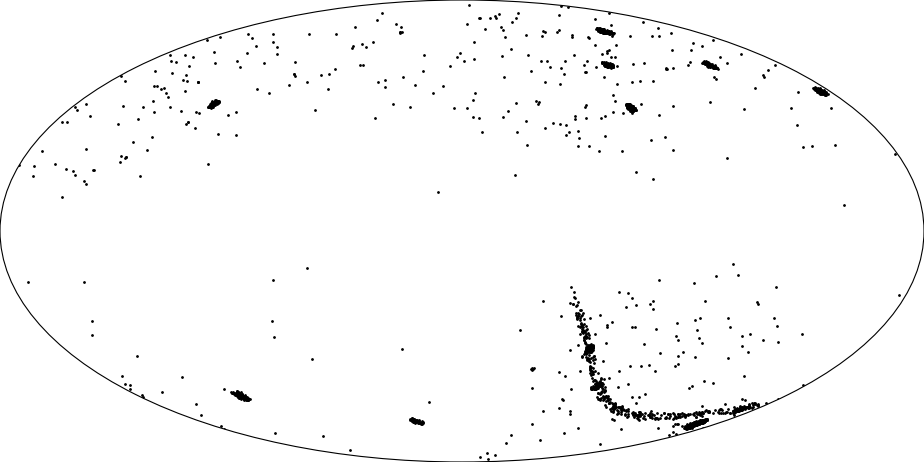
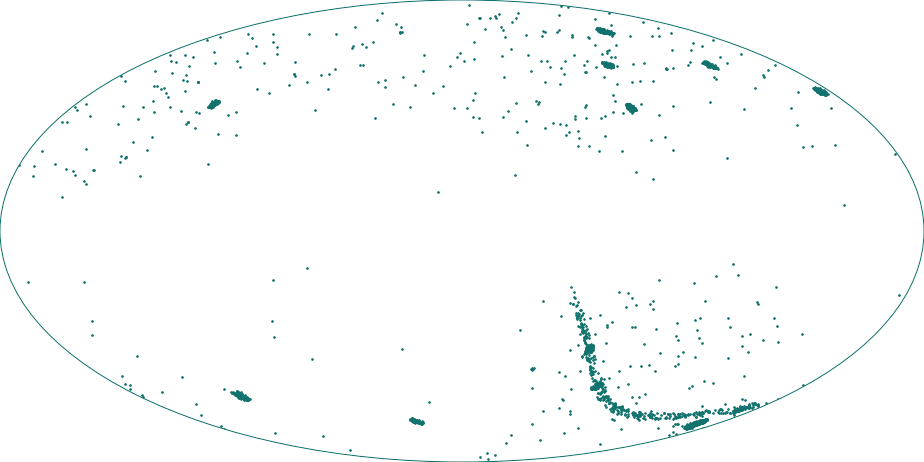
[C] refactor tooltip

diff --git a/packages/epo-widget-lib/src/charts/Tooltip/index.tsx b/packages/epo-widget-lib/src/charts/Tooltip/index.tsx
@@ -1,52 +1,113 @@
-import { FunctionComponent } from "react";
+import { FunctionComponent, PropsWithChildren } from "react";
 import * as Styled from "./styles";
 
 export interface TooltipProps {
-  value: number | string;
   x: number;
   y: number;
-  height?: number;
+  visible: boolean;
+  origin?: string;
   className?: string;
 }
 
-const Tooltip: FunctionComponent<TooltipProps> = ({
-  value,
+const getXOffset = (origin: string, arrowSize: number) => {
+  if (origin.includes("left")) return `calc(0% + ${arrowSize}px)`;
+  if (origin.includes("right")) return `calc(-100% - ${arrowSize}px)`;
+  if (origin.includes("center")) return "-50%";
+
+  return "-50%";
+};
+const getYOffset = (origin: string, arrowSize: number) => {
+  if (origin.includes("top")) return `calc(0% + ${arrowSize}px)`;
+  if (origin.includes("bottom")) return `calc(-100% - ${arrowSize}px)`;
+  if (origin.includes("center")) return "-50%";
+
+  return "-50%";
+};
+
+const getArrowPosition = (origin: string) => {
+  let left = "0";
+  let top = "0";
+  let translateX = "0";
+  let translateY = "0";
+  let rotate = "0deg";
+
+  if (origin.includes("center")) {
+    left = "50%";
+    top = "50%";
+    translateX = "-50%";
+    translateY = "-50%";
+  }
+  if (origin.includes("top")) {
+    top = "0";
+    translateY = "-100%";
+    rotate = "180deg";
+  }
+  if (origin.includes("right")) {
+    left = "100%";
+    translateX = "-25%";
+    rotate = "-90deg";
+  }
+  if (origin.includes("left")) {
+    left = "0";
+    translateX = "-75%";
+    rotate = "90deg";
+  }
+  if (origin.includes("bottom")) {
+    top = "100%";
+    translateY = "0";
+  }
+
+  return {
+    left,
+    top,
+    transform: `translate(${translateX}, ${translateY}) rotate(${rotate})`,
+  };
+};
+
+const Tooltip: FunctionComponent<PropsWithChildren<TooltipProps>> = ({
   x,
   y,
-  height = 16,
+  visible = true,
+  origin = "center bottom",
+  children,
   className,
 }) => {
-  if (!x || !y) return null;
-  const label = String(value);
-  const width = Math.max(label.length * 8, 20);
+  if (typeof x === "undefined" || typeof y === "undefined") return null;
+  const defaultOrigin = "center center";
+  const fullOrigin = [...origin.split(" "), ...defaultOrigin.split(" ")]
+    .slice(0, 2)
+    .join(" ");
+
   const arrowWidth = 6;
-  const xCenter = x + width / 2;
+
+  const xOffset = getXOffset(fullOrigin, arrowWidth);
+  const yOffset = getYOffset(fullOrigin, arrowWidth);
+
+  const showArrow =
+    fullOrigin.includes("center") &&
+    fullOrigin.split(" ").filter((o) => o !== "center").length === 1;
+  const arrowPosition = getArrowPosition(fullOrigin);
 
   return (
-    <Styled.Tooltip
-      transform={`translate(-${width / 2} -${height * 1.5})`}
-      className={className}
-    >
-      <Styled.TooltipBackground
-        rx={4}
-        width={width}
-        height={height}
-        {...{ x, y }}
-      />
-      <Styled.TooltipArrow
-        points={`${xCenter - arrowWidth} ${y + height} ${
-          xCenter + arrowWidth
-        } ${y + height} ${xCenter} ${y + height + arrowWidth}`}
-      />
-      <Styled.TooltipText
-        width={width}
-        height={height}
-        x={xCenter}
-        y={y + height / 2}
+    <foreignObject x={0} y={0} width="100%" height="100%" pointerEvents="none">
+      <Styled.Tooltip
+        className={className}
+        style={{
+          transform: `translate(calc(${xOffset} + ${x}px), calc(${yOffset} + ${y}px))`,
+        }}
+        hidden={!visible}
       >
-        {label}
-      </Styled.TooltipText>
-    </Styled.Tooltip>
+        {children}
+        {showArrow && (
+          <Styled.Arrow
+            style={{
+              "--arrow-size": `${arrowWidth}px`,
+              ...arrowPosition,
+            }}
+          />
+        )}
+      </Styled.Tooltip>
+    </foreignObject>
   );
 };
 

diff --git a/packages/epo-widget-lib/src/charts/Charts.stories.tsx b/packages/epo-widget-lib/src/charts/Charts.stories.tsx
@@ -13,7 +13,7 @@ import {
 } from ".";
 import { getLinearScale } from "@/lib/utils";
 import IconComposer from "@rubin-epo/epo-react-lib/IconComposer";
-import { max, nice } from "d3-array";
+import { nice } from "d3-array";
 
 const meta: Meta = {
   title: "Charts",
@@ -88,6 +88,8 @@ const ScatterTemplate: StoryFn = (args) => {
   const xScale = getLinearScale(xDomain, xRange);
   const yScale = getLinearScale(yDomain, yRange);
 
+  const hasTooltip = typeof hoveredIndex === "number";
+
   const data = args.data.map(
     ({ x, y }: { x: number; y: number }, i: number) => {
       const finalX = x * width;
@@ -150,10 +152,10 @@ const ScatterTemplate: StoryFn = (args) => {
           <Tooltip
             x={xScale(data[hoveredIndex].x)}
             y={yScale(yDomain[1] - yDomain[0] - data[hoveredIndex].y)}
-            value={`[${parseInt(data[hoveredIndex].x)},${parseInt(
-              data[hoveredIndex].y
-            )}]`}
-          />
+            visible={hasTooltip}
+          >{`[${parseInt(data[hoveredIndex].x)},${parseInt(
+            data[hoveredIndex].y
+          )}]`}</Tooltip>
         )}
       </Base>
       <HorizontalButtons>
@@ -204,6 +206,8 @@ const HistogramTemplate: StoryFn = (args) => {
     return { bin: i * binInterval, value: 0 };
   });
 
+  const hasTooltip = typeof hoveredIndex === "number";
+
   args.data.forEach(({ x }: { x: number }) => {
     const bin = Math.floor((x * width) / binInterval);
 
@@ -249,12 +253,14 @@ const HistogramTemplate: StoryFn = (args) => {
           />
           <Bars {...{ xScale, yScale, yDomain, data }} />
         </ClippingContainer>
-        {hoveredIndex && (
+        {hasTooltip && (
           <Tooltip
             x={xScale(bins[hoveredIndex].bin)}
             y={yScale(yDomain[1] - data[hoveredIndex].value)}
-            value={data[hoveredIndex].value}
-          />
+            visible={hasTooltip}
+          >
+            {data[hoveredIndex].value}
+          </Tooltip>
         )}
       </Base>
       <HorizontalButtons>

diff --git a/packages/epo-widget-lib/src/widgets/SupernovaThreeVector/Histogram/index.tsx b/packages/epo-widget-lib/src/widgets/SupernovaThreeVector/Histogram/index.tsx
@@ -53,6 +53,8 @@ const DistanceHistogram: FunctionComponent<DistanceHistogramProps> = ({
   const yRoot = yScale(yDomain[1]);
   const xAxisLabelId = "xAxisLabel";
 
+  const hasTooltip = typeof hoveredIndex === "number";
+
   const bars = data.map(({ value, bin }, i) => {
     return {
       x: bin,
@@ -101,13 +103,13 @@ const DistanceHistogram: FunctionComponent<DistanceHistogramProps> = ({
         )}
         {...{ xDomain, xScale, margin }}
       />
-      {typeof hoveredIndex !== "undefined" && (
-        <Tooltip
-          value={bars[hoveredIndex].value}
-          x={xScale(data[hoveredIndex].bin)}
-          y={yScale(yDomain[1] - bars[hoveredIndex].value)}
-        />
-      )}
+      <Tooltip
+        x={hasTooltip ? xScale(data[hoveredIndex].bin) : 0}
+        y={hasTooltip ? yScale(yDomain[1] - bars[hoveredIndex].value) : 0}
+        visible={hasTooltip}
+      >
+        {hasTooltip ? bars[hoveredIndex].value : null}
+      </Tooltip>
       <Styled.XAxisLabel id={xAxisLabelId} x="50%" y={height}>
         {t("supernova_three_vector.histogram.x_label")}
       </Styled.XAxisLabel>

diff --git a/packages/epo-widget-lib/src/charts/Tooltip/styles.ts b/packages/epo-widget-lib/src/charts/Tooltip/styles.ts
@@ -1,21 +1,23 @@
 import styled from "styled-components";
 
-export const Tooltip = styled.g`
-  cursor: default;
+export const Tooltip = styled.div`
+  background-color: #dce0e3;
+  border-radius: 4px;
+  font-size: 0.5em;
+  line-height: 1;
+  padding: 2px 4px;
+  text-align: center;
+  position: absolute;
 `;
 
-export const TooltipBackground = styled.rect`
-  fill: #dce0e3;
-`;
+export const Arrow = styled.div`
+  width: 0;
+  height: 0;
+  border-left: var(--arrow-width, 6px) solid transparent;
+  border-right: var(--arrow-width, 6px) solid transparent;
 
-export const TooltipText = styled.text`
-  font-size: 12px;
-  color: var(--black, #000);
-  dominant-baseline: central;
-  text-anchor: middle;
-  fill: var(--black, #000);
-`;
+  border-top: var(--arrow-width, 6px) solid #dce0e3;
 
-export const TooltipArrow = styled.polygon`
-  fill: #dce0e3;
+  position: absolute;
+  left: 0;
 `;

diff --git a/packages/epo-widget-lib/src/widgets/SupernovaThreeVector/index.tsx b/packages/epo-widget-lib/src/widgets/SupernovaThreeVector/index.tsx
@@ -128,12 +128,14 @@ const SupernovaThreeVector: FunctionComponent<SupernovaThreeVectorProps> = ({
             }
           />
         </Styled.SliderContainer>
-        <Styled.Skymap
-          objects={visibleUserObjects}
-          images={binnedImages}
-          describedById={liveDescriptionId}
-          visibleImages={selectedBins}
-        />
+        <Styled.SkymapContainer>
+          <Styled.Skymap
+            objects={visibleUserObjects}
+            images={binnedImages}
+            describedById={liveDescriptionId}
+            visibleImages={selectedBins}
+          />
+        </Styled.SkymapContainer>
         <Styled.ResetButton
           onResetCallback={() => setActiveRange([xMin, xMax])}
         />

diff --git a/packages/epo-widget-lib/src/widgets/SupernovaThreeVector/Skymap/index.tsx b/packages/epo-widget-lib/src/widgets/SupernovaThreeVector/Skymap/index.tsx
@@ -95,7 +95,6 @@ const Skymap: FunctionComponent<SkymapProps> = ({
         <ImageStack
           {...{ images, describedById }}
           visible={visibleImages}
-          mixBlendMode="multiply"
           loadCallback={() => setLoaded(true)}
           showBackdrop={false}
           showLoader={false}
